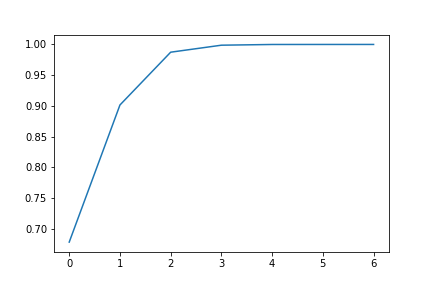
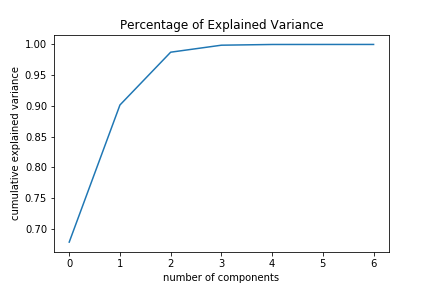
Miscellaneous improvement

Changed region(s): [[0.2708, 0.0625, 0.7523, 0.125], [0.0, 0.2188, 0.0602, 0.7812], [0.3611, 0.9375, 0.662, 1.0]]

diff --git a/finalproject_by_Yihao(Henry)_.py b/finalproject_by_Yihao(Henry)_.py
@@ -262,14 +262,21 @@ X = race_geo_college_readiness[['Pct_white',
 # Determine the number of components: 
 
 from sklearn.decomposition import PCA
+def PCT_graph(df):
+    
+    pca = PCA().fit(X)
+    plt.plot(np.cumsum(pca.explained_variance_ratio_))
+    plt.title('Percentage of Explained Variance')
+    plt.xlabel('number of components')
+    plt.ylabel('cumulative explained variance');
+    plt.savefig('/Users/YIHAOLI/Desktop/Github/finalproject/Explained_Variance.png')
+    
+    return plt
 
-pca = PCA().fit(X)
-plt.plot(np.cumsum(pca.explained_variance_ratio_))
-plt.savefig('/Users/YIHAOLI/Desktop/Github/finalproject/Explained_Variance.png')
-plt.xlabel('number of components')
-plt.ylabel('cumulative explained variance');
+plt = PCT_graph(X)
 
-plt.show()
+
+#plt.show()
 
 
 # As the explained variance graph, Explained_Variance.png, indicates, two 
@@ -291,9 +298,10 @@ def PCA_2(df):
     return loadings
 
 loading = PCA_2(X)
+
 print(loading)
 
-# As the dataframe "loading" points out, the first loading vector places places
+# As the dataframe "loading" points out, the first loading vector places
 # a positive direction on the percentage of black students, Pct_black, and the
 # percentage of students with unknown ethnicity, Pct_unknown. All other 
 # variables, including College Readiness Index, are placed in a negative 
